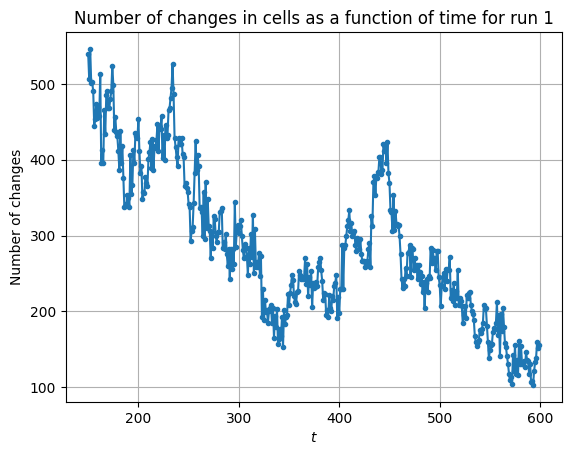
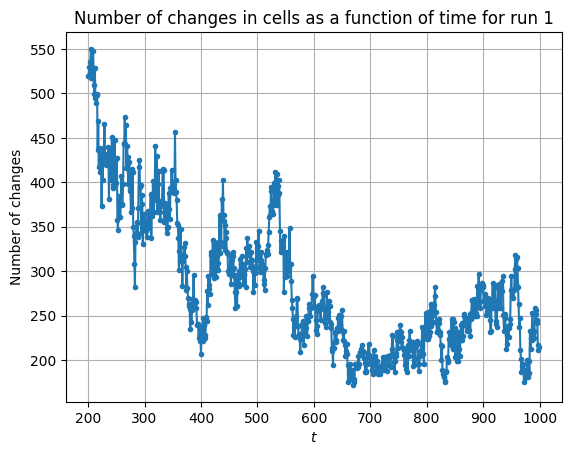
Allt

diff --git a/HW1/Brownian_Disk_with_Lennard_Jones_Potential.py b/HW1/Brownian_Disk_with_Lennard_Jones_Potential.py
@@ -132,9 +132,9 @@ for n_t in range(N_t):
 #%% Calculate MSD
 MSD = np.zeros((N_t))
 
-for n_t in range(1,N_t):
-    displacement = np.sum((diskPosition[:,n_t:N_t] - diskPosition[:,:N_t-n_t])**2)
-    MSD[n_t-1] = np.mean(displacement)
+for n_t in range(1, N_t):
+    displacement = np.sum((diskPosition[:,n_t:] - diskPosition[:,:-n_t])**2, axis=0)
+    MSD[n_t] = np.mean(displacement)
 
 #%% Plot
 # Disk trajectory
@@ -156,4 +156,17 @@ plt.show()
 
 # %% Calculate estimate of D
 
-MSD(tau) = 4*D*tau
+# Calculate MSD(tau)
+p = np.polyfit(timeSteps, MSD, 1)
+D = p[0]/4
+
+plt.plot(timeSteps, MSD)
+plt.plot(timeSteps, p[0]*timeSteps + p[1], '--k')
+plt.xlabel("Time")
+plt.ylabel("Mean Square Displacement")
+plt.title("Mean Square Displacement (MSD) of Disk")
+plt.grid()
+plt.show()
+
+print(f'Approximate value of D: {D}')
+# %%

diff --git a/HW1/The_Game_of_Life.py b/HW1/The_Game_of_Life.py
@@ -35,9 +35,9 @@ def ApplyRule(rule_2d, status):
 N = 100     # Bigger if possible
 
 n_runs = 5
-n_time_steps = 600
+n_time_steps = 1000
 
-steady_time_steps = 150
+steady_time_steps = 200
 
 alive_array = np.zeros([n_runs, n_time_steps])
 change_array = np.zeros([n_runs, n_time_steps-steady_time_steps])

diff --git a/HW1/Exponent_alpha_for_a_forest_fire_model.py b/HW1/Exponent_alpha_for_a_forest_fire_model.py
@@ -164,6 +164,7 @@ alpha_inf = p[1]
 
 plt.errorbar(N_inverse, alpha_average, yerr=alpha_std, fmt='o')
 plt.plot(N_inverse, p[0]*np.array(N_inverse) + p[1], '--k')
+plt.ylim(1.09,1.35)
 plt.xlabel(r'$1/N$')
 plt.ylabel(r'$\alpha$')
 plt.title(r'Exponent $\alpha_N$ as a function of $1/N$')
